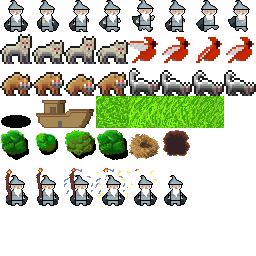
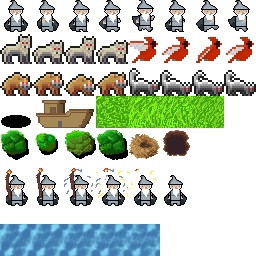
Starts adding upgrades in, fixes UI a bit by having buttons to click instead of clicking anywhere.

Changed region(s): [[0.0, 0.875, 0.625, 1.0]]

diff --git a/game.js b/game.js
@@ -12,16 +12,22 @@
 let gameStarted, spriteAtlas, setupPhase, setupPhaseTimer, waveNumber, waveStarted, waveTimer, waveFinished, enemySpawnTimer, friendlySpawnTimer, noah, ark, friendlies, enemies, spawners;
 let grassTiles, treeTiles, grassLayer, treeLayer;
 let totalEnemiesKilled, enemiesKilledInWave;
+let waterObjects = [];
 const levelSize = vec2(42, 24);
-let setupTimeDefault = 20.0;
+let setupTimeDefault = 2.0;
 let waveTimeDefault = 25.0;
 let enemySpawnTimeDefault = 2.0;
 const friendlySpawnTimeDefault = 2.0;
 const maxFriendliesAllowed = 1;
 
+const afterWaveUpgrade = ['Noah Atk Dmg+', 'Noah Atk Spd+', 'Noah Cast Dmg+', 'Noah Cast Spd+', 'Friendly Atk Dmg+'];
+let upgrade1 = '';
+let upgrade2 = '';
+
 const enemyHealthModifierByWave = [0,0,1,1,2,3,4,5];
 const friendlyModifierByWave = [0,0,1,1,2,3,4,5];
 
+const snd_wave_upgrade = new Sound([2,,666,.05,.15,.41,,2.8,,,,,.03,,3,,,.8,.15,,971]); // Powerup 23
 const snd_wave_start = new Sound([2.1,,319,.05,.18,.41,,1.9,-9,,,,.07,,,.2,.13,.6,.17,.22]); // Powerup 2
 const snd_enemy_spawn = new Sound([1.8,0,261.6256,.1,.62,.37,2,.2,,,,,.1,,,.1,.13,.32,.1,.45,-1044]); // Music 0
 const snd_enemy_hit = new Sound([3.3,,209,.01,.02,.18,3,3.1,,1,,,,1.1,,.4,.11,.89,.09,,-1556]); // Hit 6
@@ -524,6 +530,53 @@ class Tree extends EngineObject {
     }
 }
 
+class Water extends EngineObject {
+    constructor(pos) {
+        super(pos, vec2(1,1), spriteAtlas.water);
+
+        this.currentFrame = 0;
+        this.frameOffset = 0;
+        this.maxFrames = 5;
+        this.animationFrame = 0;
+        this.frameTime = 0.2;
+        this.frameTimer = new Timer(this.frameTime);
+    }
+
+    update() {
+        this.renderOrder = 2;
+
+        super.update();
+    }
+
+    render() {
+        console.log(this.animationFrame);
+        this.tileInfo = spriteAtlas.water.frame(this.animationFrame);
+
+        // figure out what animation and then draw the frame
+        if(this.frameTimer.elapsed()) {
+            // increment frame
+            if(this.currentFrame < this.maxFrames-1) {
+                this.currentFrame += 1;
+                this.animationFrame = this.currentFrame + this.frameOffset;
+            } else {
+                this.currentFrame = 0;
+                this.animationFrame = this.currentFrame + this.frameOffset;
+            }
+
+            this.frameTimer = new Timer(this.frameTime);
+        }
+
+        // draw character
+        drawTile(this.pos, this.drawSize, this.tileInfo, this.color, this.angle, this.mirror);
+    }
+}
+
+function spawnWaterObjects(amount) {
+    for(var i=0;i<amount;i++) {
+        waterObjects.push(new Water(vec2(randInt(levelSize.x), randInt(levelSize.y))));
+    }
+}
+
 class Spawner extends EngineObject {
     constructor(pos, spriteRef) {
         super(pos, vec2(1,1), spriteRef);
@@ -629,6 +682,7 @@ function gameInit()
         nest: tile(36,32),
         cave: tile(37,32),
         playerCast: new TileInfo(vec2(0,160), vec2(32,64)),
+        water: tile(56,32),
 
         // small tiles
         //gun:     tile(2,8),
@@ -793,7 +847,7 @@ function gameUpdate()
         startLevel();
     }
 
-    if(!gameStarted && !ark && mouseWasPressed(0)) {
+    if(!gameStarted && !ark && mouseWasPressed(0) && isOverlapping(mousePos, vec2(0.1,0.1), vec2(cameraPos.x,cameraPos.y-1.8), vec2(8,1))) {
         gameStarted = true;
 
         ark = new Ark(vec2(levelSize.x/2, levelSize.y/2));
@@ -809,11 +863,30 @@ function gameUpdate()
         startLevel();
         console.log("Level started");
     } else if(!waveStarted && mouseWasPressed(0) && !setupPhase) {
-        setupPhase = true;
-        setupPhaseTimer = new Timer(setupTimeDefault);
-    } else if(gameStarted && waveStarted && !ark && mouseWasPressed(0)) {
+        if(waveNumber > 1) {
+            // upgrade 1 clicked
+            if(isOverlapping(mousePos, vec2(0.1,0.1), vec2(cameraPos.x-4, cameraPos.y-4), vec2(7,2))) {
+                grantUpgrade(upgrade1);
+                setupPhase = true;
+                setupPhaseTimer = new Timer(setupTimeDefault);
+            }
+
+            // upgrade 2 clicked
+            if(isOverlapping(mousePos, vec2(0.1,0.1), vec2(cameraPos.x+4, cameraPos.y-4), vec2(7,2))) {
+                grantUpgrade(upgrade2);
+                setupPhase = true;
+                setupPhaseTimer = new Timer(setupTimeDefault);
+            }
+        } else {
+            if(isOverlapping(mousePos, vec2(0.1,0.1), vec2(cameraPos.x,cameraPos.y-1.8), vec2(8,1))) {
+                setupPhase = true;
+                setupPhaseTimer = new Timer(setupTimeDefault);
+            }
+        }
+        
+    } else if(gameStarted && waveStarted && !ark && mouseWasPressed(0) && isOverlapping(mousePos, vec2(0.1,0.1), vec2(cameraPos.x,cameraPos.y-1.8), vec2(8,1))) {
         newGame();
-    } else if(gameStarted && !waveStarted && !ark && mouseWasPressed(0)) {
+    } else if(gameStarted && !waveStarted && !ark && mouseWasPressed(0) && isOverlapping(mousePos, vec2(0.1,0.1), vec2(cameraPos.x,cameraPos.y-1.8), vec2(8,1))) {
         newGame();
     }
 }
@@ -827,6 +900,10 @@ function startLevel() {
     noah.spawnersAllowed += 1;
     waveStarted = false;
 
+    // establish upgrades to pick from
+    upgrade1 = afterWaveUpgrade[randInt(afterWaveUpgrade.length)];
+    upgrade2 = afterWaveUpgrade[randInt(afterWaveUpgrade.length)];
+
     //setupPhase = true;
     //setupPhaseTimer = new Timer(setupTimeDefault);
 
@@ -838,6 +915,7 @@ function startWave() {
     enemiesKilledInWave = 0;
     waveStarted = true;
     console.log("Wave started");
+    spawnWaterObjects(50);
     waveTimer = new Timer(waveTimeDefault);
     enemySpawnTimer = new Timer(3);
     friendlySpawnTimer = new Timer(0);
@@ -854,6 +932,8 @@ function newGame() {
     waveNumber = 0;
     waveTimeDefault = 25.0;
     enemySpawnTimeDefault = 2.0;
+    upgrade1 = '';
+    upgrade2 = '';
 }
 
 function resetAnimals() {
@@ -866,10 +946,14 @@ function resetAnimals() {
     for (let i=0;i<spawners.length;i++) {
         spawners[i].destroy();
     }
+    for (let i=0;i<waterObjects.length;i++) {
+        waterObjects[i].destroy();
+    }
 
     enemies = [];
     friendlies = [];
     spawners = [];
+    waterObjects = [];
 }
 
 ///////////////////////////////////////////////////////////////////////////////
@@ -907,6 +991,30 @@ function drawEnemyHealth() {
     }
 }
 
+function grantUpgrade(upgrade) {
+    snd_wave_upgrade.play();
+
+    if(upgrade == 'Noah Atk Dmg+') {
+
+    }
+
+    if(upgrade == 'Noah Atk Spd+') {
+
+    }
+
+    if(upgrade == 'Noah Cast Dmg+') {
+
+    }
+
+    if(upgrade == 'Noah Cast Spd+') {
+
+    }
+
+    if(upgrade == 'Friendly Atk Dmg+') {
+
+    }
+}
+
 ///////////////////////////////////////////////////////////////////////////////
 function gameRenderPost()
 {
@@ -916,12 +1024,14 @@ function gameRenderPost()
         drawRect(cameraPos.add(vec2(0,-0.5)), vec2(21,7), rgb(0.9,0.9,0.9,1));
         drawRect(cameraPos.add(vec2(0,-0.5)), vec2(20,6), rgb(0.1,0.1,0.1,1));
         drawTextScreen('Noah\'s Ark', mainCanvasSize.scale(.5), 80);
+        drawRect(vec2(cameraPos.x,cameraPos.y-1.8), vec2(8,1), rgb(0,0.9,0,1));
         drawTextScreen('Click to Start!', mainCanvasSize.scale(.5).add(vec2(0,60)), 20);
     } else if (gameStarted && !waveStarted && !setupPhase) {
         if (!ark) {
             drawRect(cameraPos.add(vec2(0,-0.5)), vec2(15,8), rgb(0.9,0.9,0.9,1));
             drawRect(cameraPos.add(vec2(0,-0.5)), vec2(14,7), rgb(0.1,0.1,0.1,1));
             drawTextScreen('You Lose!', mainCanvasSize.scale(.5), 80);
+            drawRect(vec2(cameraPos.x,cameraPos.y-1.8), vec2(8,1), rgb(0,0.9,0,1));
             drawTextScreen('Click to Play Again!', mainCanvasSize.scale(.5).add(vec2(0,60)), 20);
         } else {
             if(waveNumber > 1) {
@@ -929,12 +1039,21 @@ function gameRenderPost()
                 drawRect(cameraPos, vec2(20,13), rgb(0.1,0.1,0.1,1));
                 drawTextScreen('Enemies killed during Wave ' + (waveNumber-1) + ': ' + enemiesKilledInWave, mainCanvasSize.scale(.5).add(vec2(0,-160)), 30);
                 drawTextScreen('Total enemies killed this game: ' + totalEnemiesKilled, mainCanvasSize.scale(.5).add(vec2(0,-120)), 30);
+
+                // upgrade selection
+                drawRect(vec2(cameraPos.x-4, cameraPos.y-4), vec2(7,2), rgb(0.5,0.5,0.5,1));
+                drawTextScreen(upgrade1, mainCanvasSize.scale(.5).add(vec2(-125, 130)), 20);
+                drawRect(vec2(cameraPos.x+4, cameraPos.y-4), vec2(7,2), rgb(0.5,0.5,0.5,1));
+                drawTextScreen(upgrade2, mainCanvasSize.scale(.5).add(vec2(125, 130)), 20);
             } else {
                 drawRect(cameraPos.add(vec2(0,-0.5)), vec2(15,8), rgb(0.9,0.9,0.9,1));
                 drawRect(cameraPos.add(vec2(0,-0.5)), vec2(14,7), rgb(0.1,0.1,0.1,1));
+
+                drawRect(vec2(cameraPos.x,cameraPos.y-1.8), vec2(8,1), rgb(0,0.9,0,1));
+                drawTextScreen('Click to start setup phase!', mainCanvasSize.scale(.5).add(vec2(0,60)), 20);
             }
+            
             drawTextScreen('Wave ' + waveNumber, mainCanvasSize.scale(.5), 80);
-            drawTextScreen('Click to start setup phase!', mainCanvasSize.scale(.5).add(vec2(0,60)), 20);
         }
     } else if (gameStarted && !waveStarted && setupPhase) {
         if(setupPhaseTimer) {
@@ -951,6 +1070,7 @@ function gameRenderPost()
             drawRect(cameraPos.add(vec2(0,-0.5)), vec2(15,8), rgb(0.9,0.9,0.9,1));
             drawRect(cameraPos.add(vec2(0,-0.5)), vec2(14,7), rgb(0.1,0.1,0.1,1));
             drawTextScreen('You Lose!', mainCanvasSize.scale(.5), 80);
+            drawRect(vec2(cameraPos.x,cameraPos.y-1.8), vec2(8,1), rgb(0,0.9,0,1));
             drawTextScreen('Click to Play Again!', mainCanvasSize.scale(.5).add(vec2(0,60)), 20);
         } else {
             drawRect(vec2(cameraPos.x, 22), vec2(10,2), rgb(0.1,0.1,0.1,0.4));
